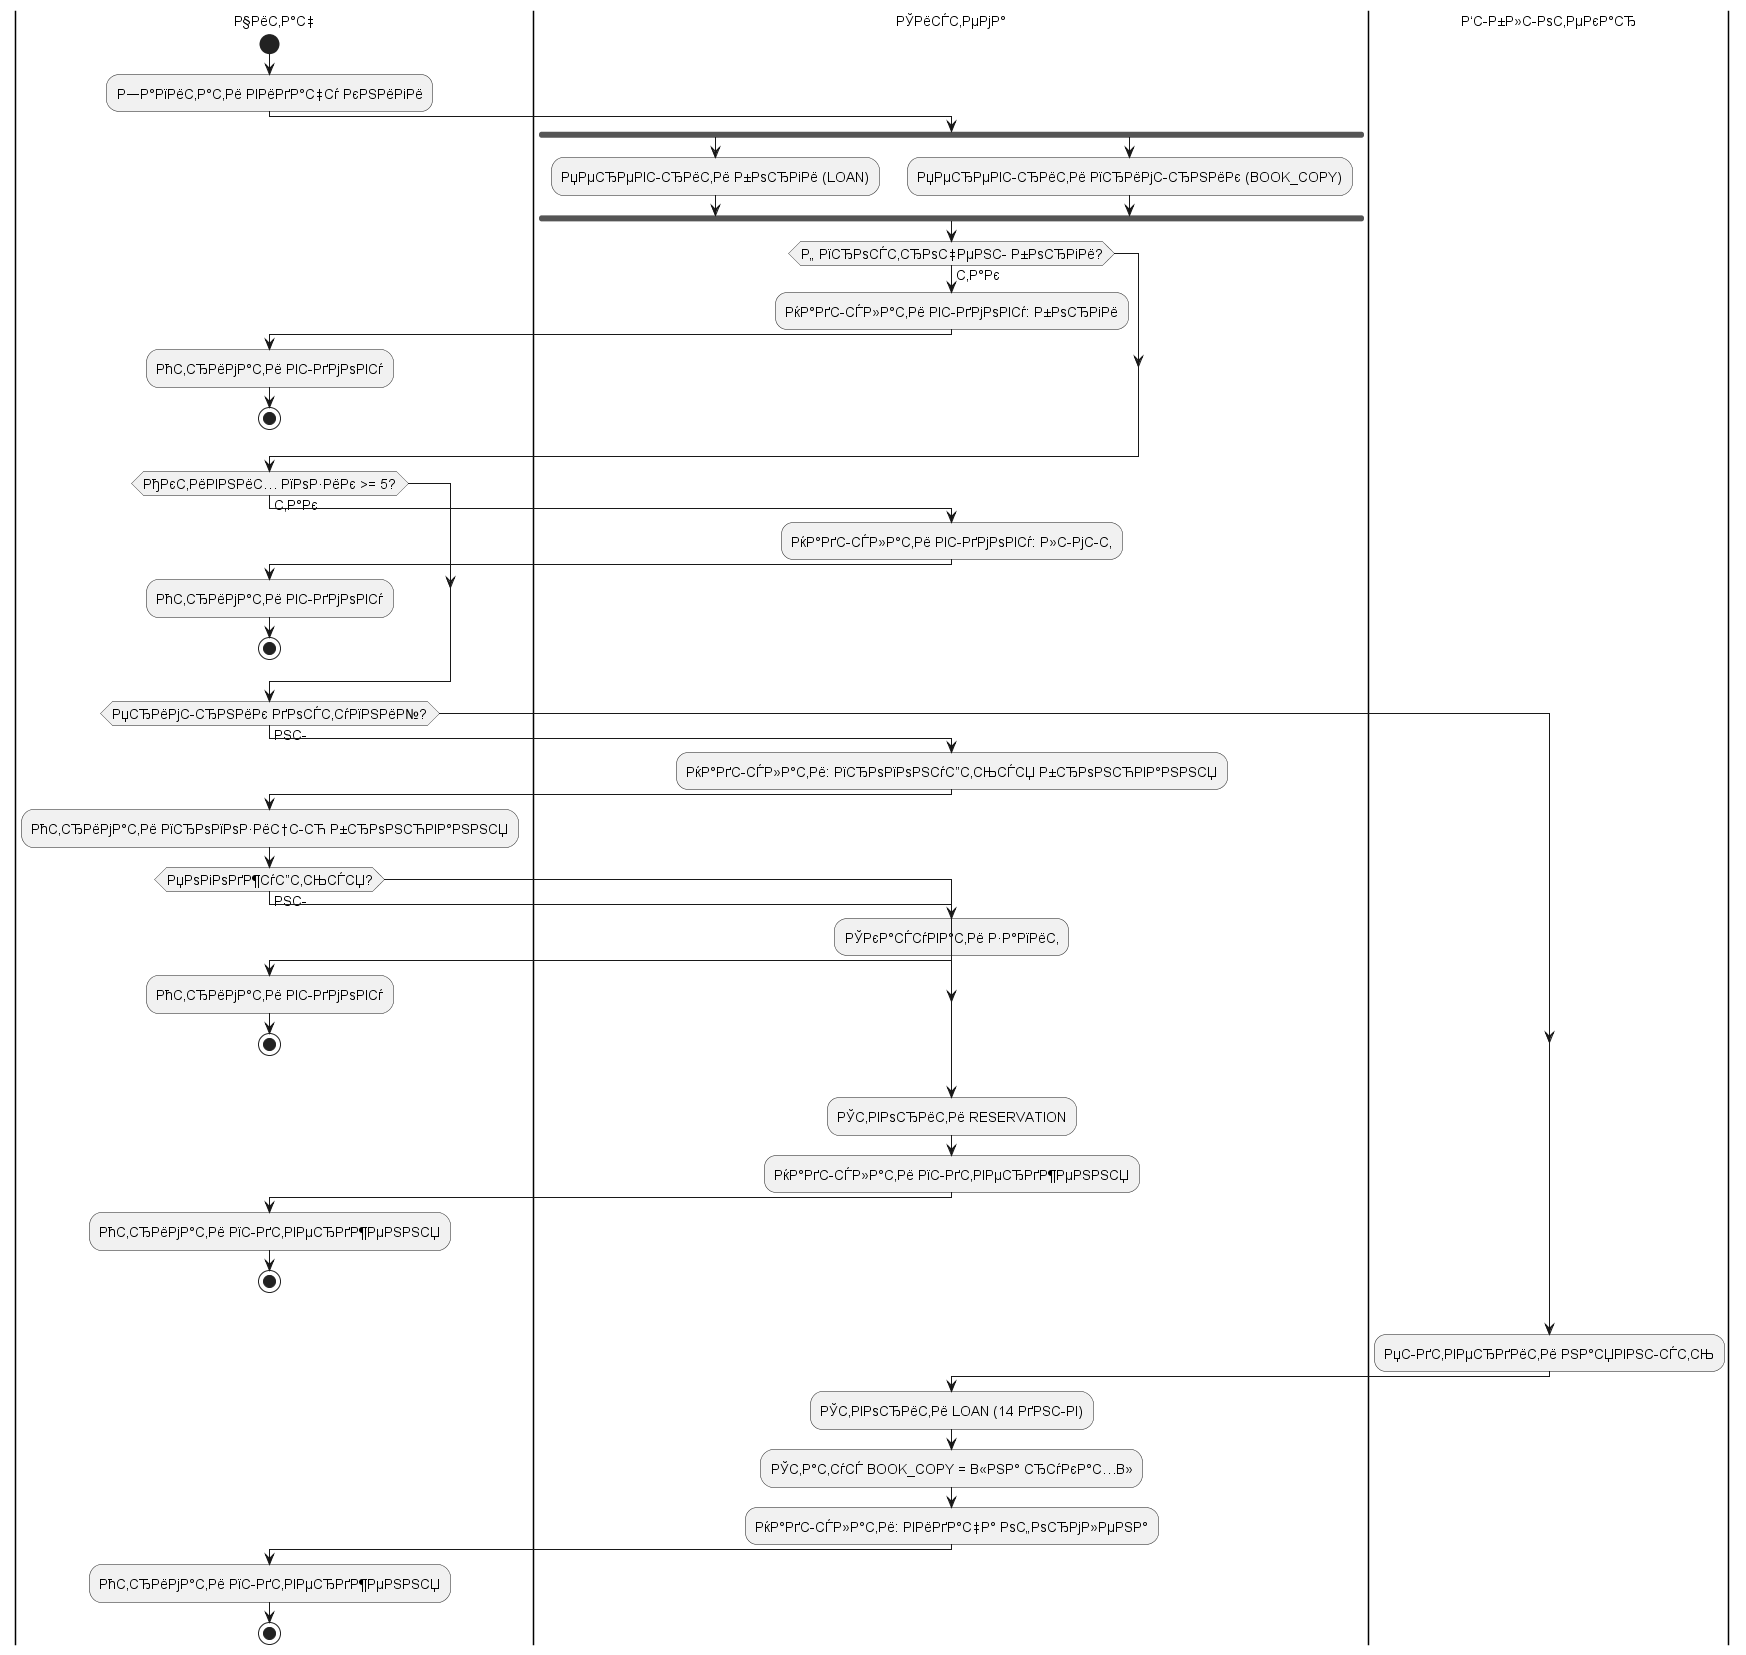
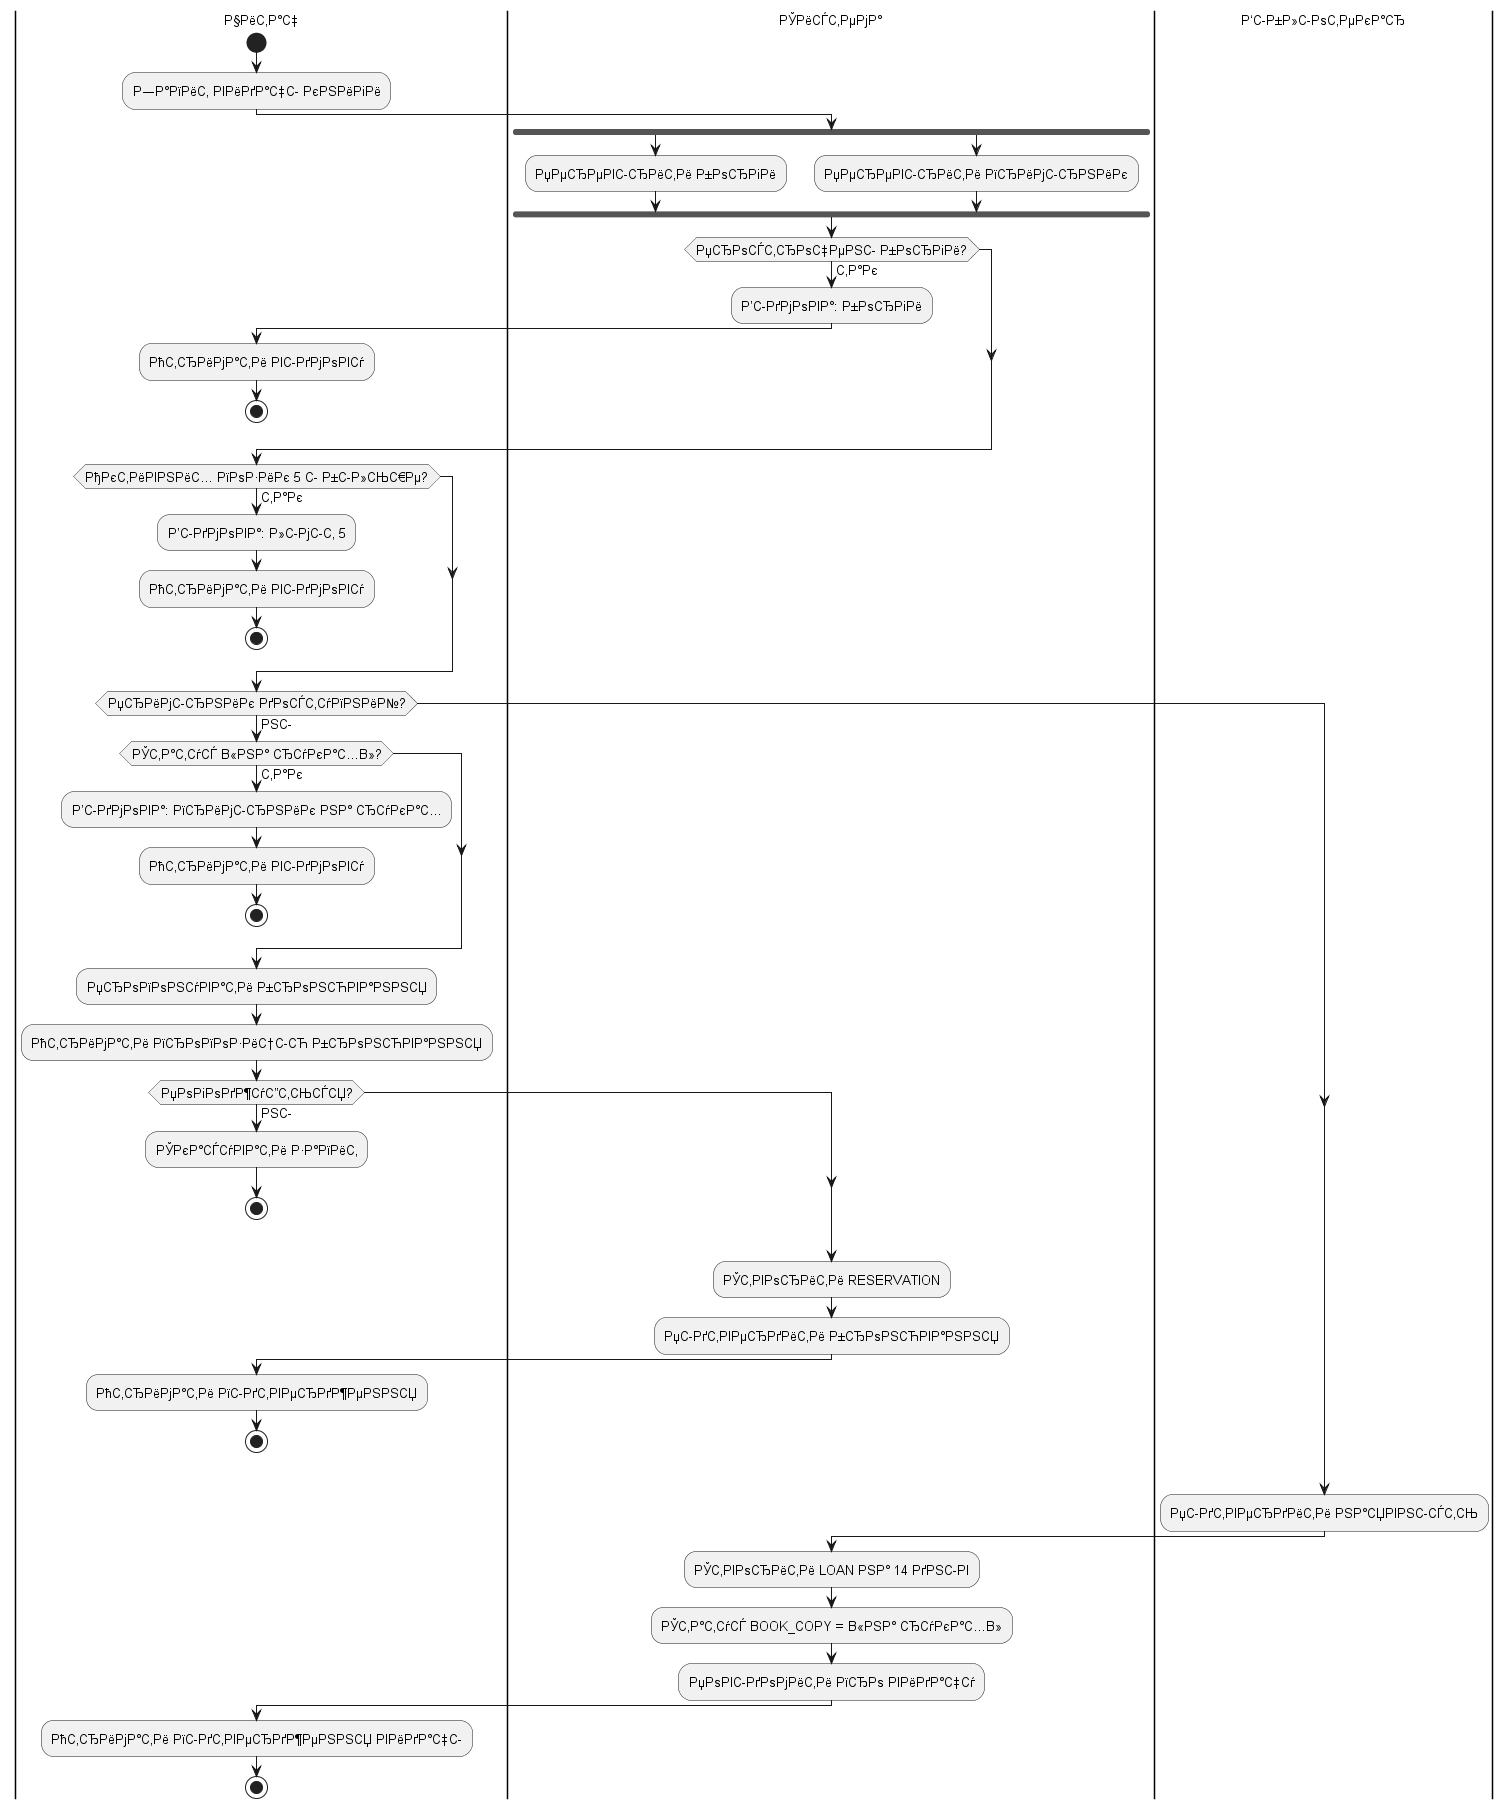
docs(task-4): readable activity diagram with PNG render
Ранні виходи замість вкладених else, коротші підписи; PNG-рендер.

diff --git a/task-4/activity.md b/task-4/activity.md
@@ -1,8 +1,8 @@
-# Завдання 4: Бізнес-процес (Activity Diagram)
+# Діаграма діяльності: Видача книги (Завдання 4)
 
-Мета: описати UC_Borrow як єдиний бізнес-процес з усіма сценаріями на одній діаграмі діяльності.
+Діаграма описує процес видачі книги читачеві. Показано перевірки боргів, ліміту позик і доступності примірника.
 
-## Діаграма
+## activity-borrow
 
 ![Діаграма діяльності: видача книги](activity.png)
 
@@ -10,46 +10,45 @@
 
 ```plantuml
 @startuml activity-borrow
-skinparam defaultFontSize 14
-
+skinparam defaultFontSize 13
 |Читач|
 start
-:Запитати видачу книги;
+:Запит видачі книги;
 |Система|
 fork
-  :Перевірити борги (LOAN);
+  :Перевірити борги;
 fork again
-  :Перевірити примірник (BOOK_COPY);
+  :Перевірити примірник;
 end fork
-if (Є прострочені борги?) then (так)
-  |Система|
-  :Надіслати відмову: борги;
+if (Прострочені борги?) then (так)
+  :Відмова: борги;
   |Читач|
   :Отримати відмову;
   stop
 endif
-if (Активних позик >= 5?) then (так)
-  |Система|
-  :Надіслати відмову: ліміт;
+if (Активних позик 5 і більше?) then (так)
+  :Відмова: ліміт 5;
   |Читач|
   :Отримати відмову;
   stop
 endif
 if (Примірник доступний?) then (ні)
-  |Система|
-  :Надіслати: пропонується бронювання;
-  |Читач|
-  :Отримати пропозицію бронювання;
-  if (Погоджується?) then (ні)
-    |Система|
-    :Скасувати запит;
+  if (Статус «на руках»?) then (так)
+    :Відмова: примірник на руках;
     |Читач|
     :Отримати відмову;
     stop
   endif
+  :Пропонувати бронювання;
+  |Читач|
+  :Отримати пропозицію бронювання;
+  if (Погоджується?) then (ні)
+    :Скасувати запит;
+    stop
+  endif
   |Система|
   :Створити RESERVATION;
-  :Надіслати підтвердження;
+  :Підтвердити бронювання;
   |Читач|
   :Отримати підтвердження;
   stop
@@ -57,31 +56,13 @@ endif
 |Бібліотекар|
 :Підтвердити наявність;
 |Система|
-:Створити LOAN (14 днів);
+:Створити LOAN на 14 днів;
 :Статус BOOK_COPY = «на руках»;
-:Надіслати: видача оформлена;
+:Повідомити про видачу;
 |Читач|
-:Отримати підтвердження;
+:Отримати підтвердження видачі;
 stop
 @enduml
 ```
 
 </details>
-
-## Сценарії і шляхи
-
-| Сценарій | Шлях (коротко) |
-| :--- | :--- |
-| S1 Успішна видача | паралельно: борги (ні) & примірник (так) → підтвердити → створити LOAN → кінець |
-| S2 Бронювання | паралельно: борги (ні) & примірник (ні) → пропозиція → погоджується (так) → створити RESERVATION → кінець |
-| S2a Відмова бронювання | паралельно: борги (ні) & примірник (ні) → пропозиція → погоджується (ні) → скасувати → відмова → кінець |
-| S3 Відмова через борги | борги (так) → відмовити → кінець |
-| S4 Відмова через ліміт | борги (ні) → ліміт (≥5) → відмовити → кінець |
-
-## Учасники і сутності
-
-Смуги: Читач, Система, Бібліотекар. Вузли даних: MEMBER, LIBRARIAN, BOOK_COPY, LOAN, RESERVATION. Паралельні перевірки боргів (LOAN) і примірника (BOOK_COPY), ранні виходи для відмов.
-
-## Як переглянути
-
-Відкрити activity.png або activity.puml у PlantUML.
